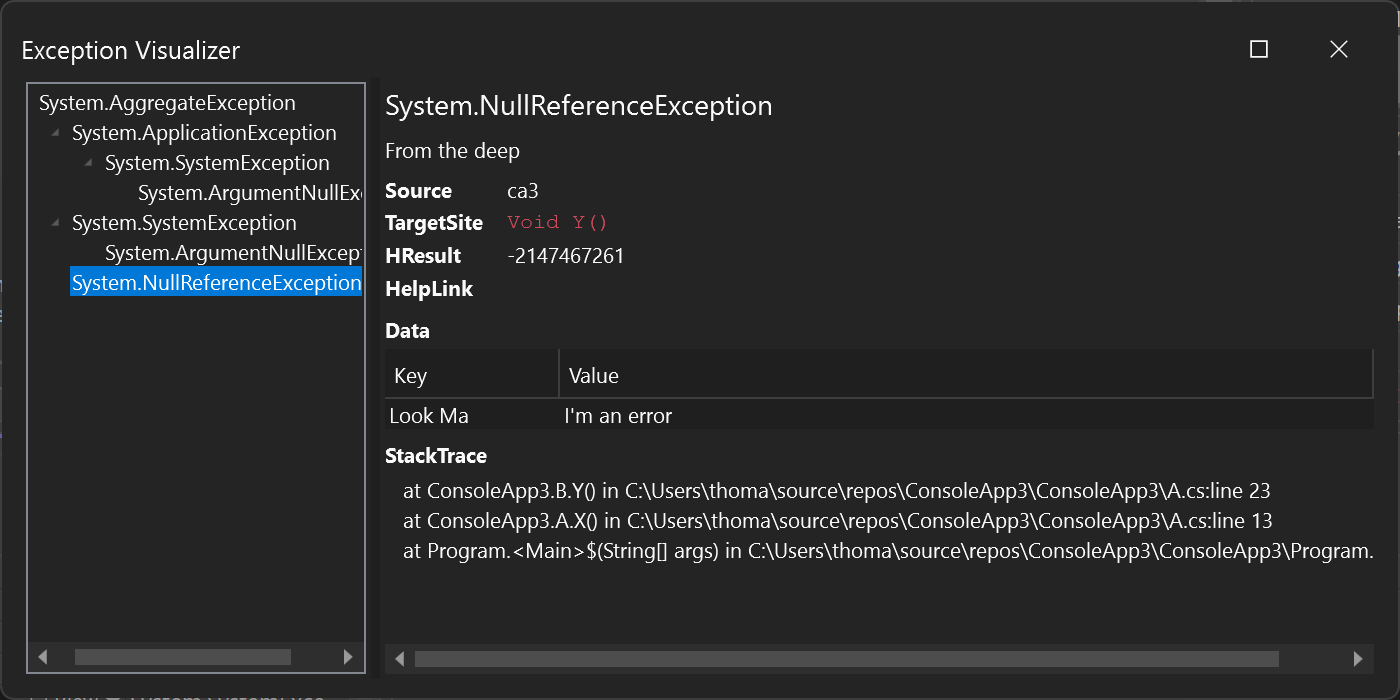
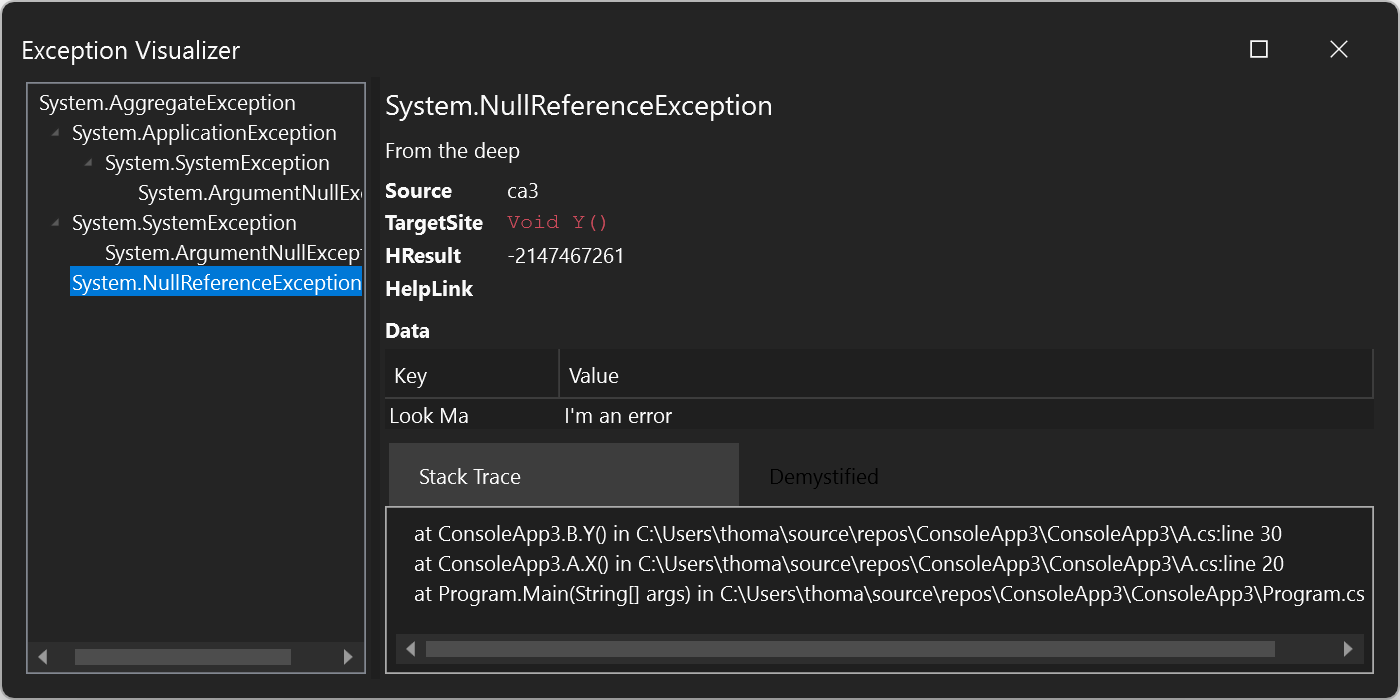
Support for showing demystified stack traces

diff --git a/src/ExceptionVisualizer/ExceptionUserControl.xaml b/src/ExceptionVisualizer/ExceptionUserControl.xaml
@@ -5,6 +5,7 @@
     <DataTemplate.Resources>
         <Style TargetType="TreeView" BasedOn="{StaticResource {x:Static styles:VsResourceKeys.ThemedDialogTreeViewStyleKey}}" />
         <Style TargetType="TextBox" BasedOn="{StaticResource {x:Static styles:VsResourceKeys.TextBoxStyleKey}}" />
+        <Style TargetType="TabItem" BasedOn="{StaticResource {x:Static styles:VsResourceKeys.ThemedDialogTabItemNavigationStyleKey}}" />
         <DataTemplate x:Key="CaptureTemplate">
             <Grid>
                 <Grid.ColumnDefinitions>
@@ -16,7 +17,6 @@
                     <RowDefinition Height="80"></RowDefinition>
                     <RowDefinition MaxHeight="20" Height="Auto"></RowDefinition>
                     <RowDefinition MaxHeight="90" Height="Auto"></RowDefinition>
-                    <RowDefinition Height="20"></RowDefinition>
                     <RowDefinition Height="*"></RowDefinition>
                 </Grid.RowDefinitions>
                 <TextBlock Text="{Binding Type}" FontSize="16" VerticalAlignment="Center" Grid.Row="0" Margin="3"/>
@@ -105,15 +105,18 @@
                         </DataGrid.Columns>
                     </DataGrid>
                 </ScrollViewer>
-                <TextBlock Grid.Row="5" Margin="3">
-                    <TextBlock.Inlines>
-                        <Run FontWeight="Bold" Text="StackTrace" />
-                    </TextBlock.Inlines>
-                </TextBlock>
-
-                <ScrollViewer Grid.Row="6" Margin="3" HorizontalScrollBarVisibility="Auto" VerticalScrollBarVisibility="Auto">
-                    <TextBlock Text="{Binding StackTrace}"/>
-                </ScrollViewer>
+                <TabControl Grid.Row="5" Margin="3" Foreground="{DynamicResource VsBrush.ToolWindowText}" Background="{DynamicResource VsBrush.ToolWindowBackground }">
+                    <TabItem Header="Stack Trace">
+                        <ScrollViewer Margin="3" HorizontalScrollBarVisibility="Auto" VerticalScrollBarVisibility="Auto">
+                            <TextBlock Text="{Binding StackTrace}" Foreground="{DynamicResource VsBrush.ToolWindowText}" Background="{DynamicResource VsBrush.ToolWindowBackground }"/>
+                        </ScrollViewer>
+                    </TabItem>
+                    <TabItem Header="Demystified">
+                        <ScrollViewer Margin="3" HorizontalScrollBarVisibility="Auto" VerticalScrollBarVisibility="Auto">
+                            <TextBlock Text="{Binding Demystified}" Foreground="{DynamicResource VsBrush.ToolWindowText}" Background="{DynamicResource VsBrush.ToolWindowBackground }"/>
+                        </ScrollViewer>
+                    </TabItem>
+                </TabControl>
             </Grid>
         </DataTemplate>
     </DataTemplate.Resources>

diff --git a/src/ExceptionVisualizerSource/ExceptionModelSource.cs b/src/ExceptionVisualizerSource/ExceptionModelSource.cs
@@ -4,8 +4,7 @@ using System.Linq;
 using System.IO;
 using System.Collections.Generic;
 using System.Collections;
-using System.Data.Common;
-using System.Collections.ObjectModel;
+using System.Diagnostics;
 
 namespace ExceptionVisualizerSource
 {
@@ -46,6 +45,11 @@ namespace ExceptionVisualizerSource
                     .Cast<object>()
                     .Where(k => !string.IsNullOrWhiteSpace(k.ToString()))
                     .Select(i => new KeyValuePair<string, string>(i.ToString(), Value(e.Data, i))));
+            var stackTrace = new EnhancedStackTrace(e);
+            if (stackTrace.FrameCount > 0)
+            {
+                model.Demystified = stackTrace.ToString();
+            }
 
             if (e is AggregateException aggregateException && aggregateException.InnerExceptions?.Count> 0)
             {

diff --git a/src/ExceptionVisualizer/ExceptionUserControl.cs b/src/ExceptionVisualizer/ExceptionUserControl.cs
@@ -60,6 +60,7 @@ namespace ExceptionVisualizer
                 Source = exception.Source,
                 StackTrace = exception.StackTrace,
                 TargetSite = exception.TargetSite,
+                Demystified = exception.Demystified,
                 @Type = exception.Type,
             };
             foreach (var inner in exception.InnerExceptions)

diff --git a/src/ExceptionVisualizer/Models/ExceptionViewModel.cs b/src/ExceptionVisualizer/Models/ExceptionViewModel.cs
@@ -18,6 +18,9 @@ namespace ExceptionVisualizer.Models
         public string StackTrace { get; set; }
 
         [DataMember]
+        public string Demystified { get; set; }
+
+        [DataMember]
         public ObservableCollection<DataViewModel> Data { get; set; } = new ObservableCollection<DataViewModel>();
 
         [DataMember]

diff --git a/src/ExceptionVisualizerSource/ExceptionModel.cs b/src/ExceptionVisualizerSource/ExceptionModel.cs
@@ -17,6 +17,9 @@ namespace ExceptionVisualizerSource
         public string StackTrace { get; set; }
 
         [DataMember]
+        public string Demystified { get; set; }
+
+        [DataMember]
         public List<KeyValuePair<string, string>> Data { get; set; } = new List<KeyValuePair<string, string>>();
 
         [DataMember]
